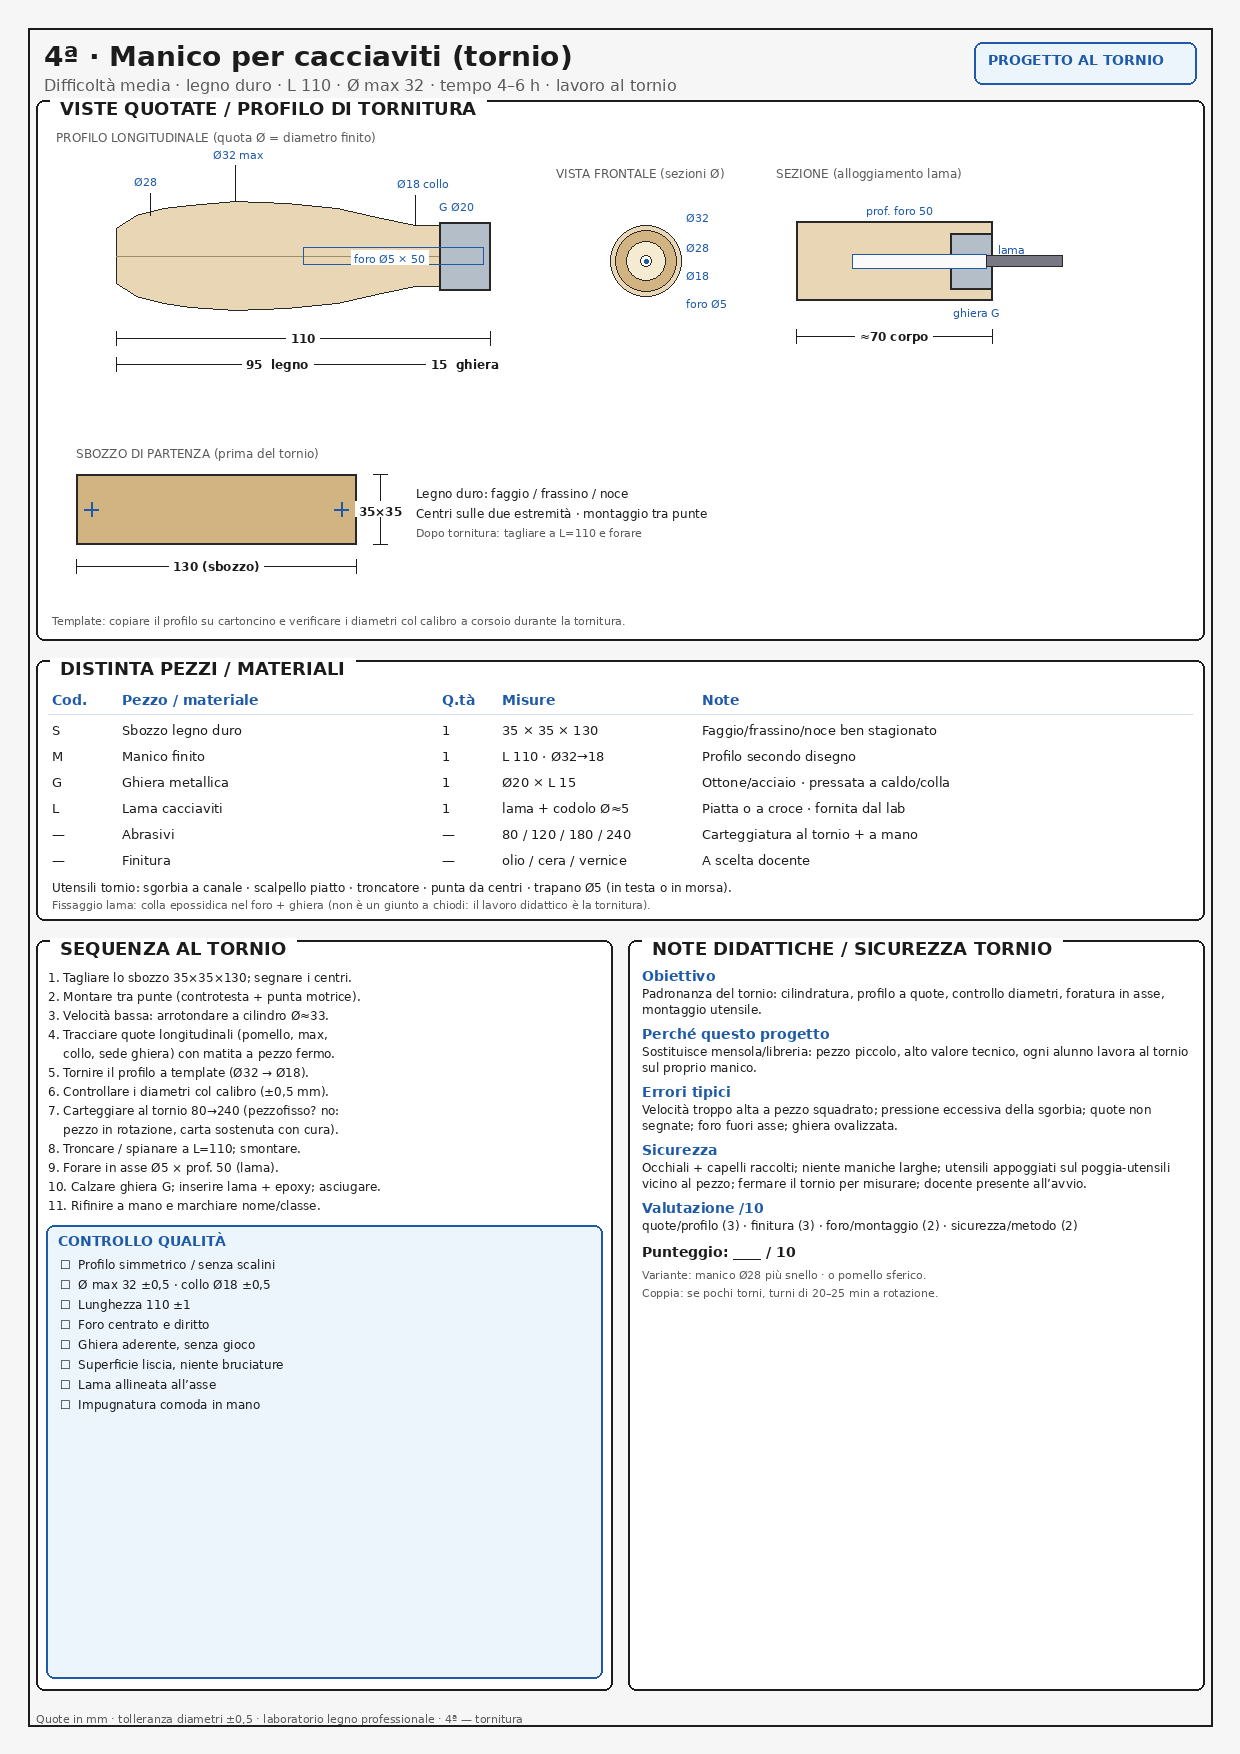
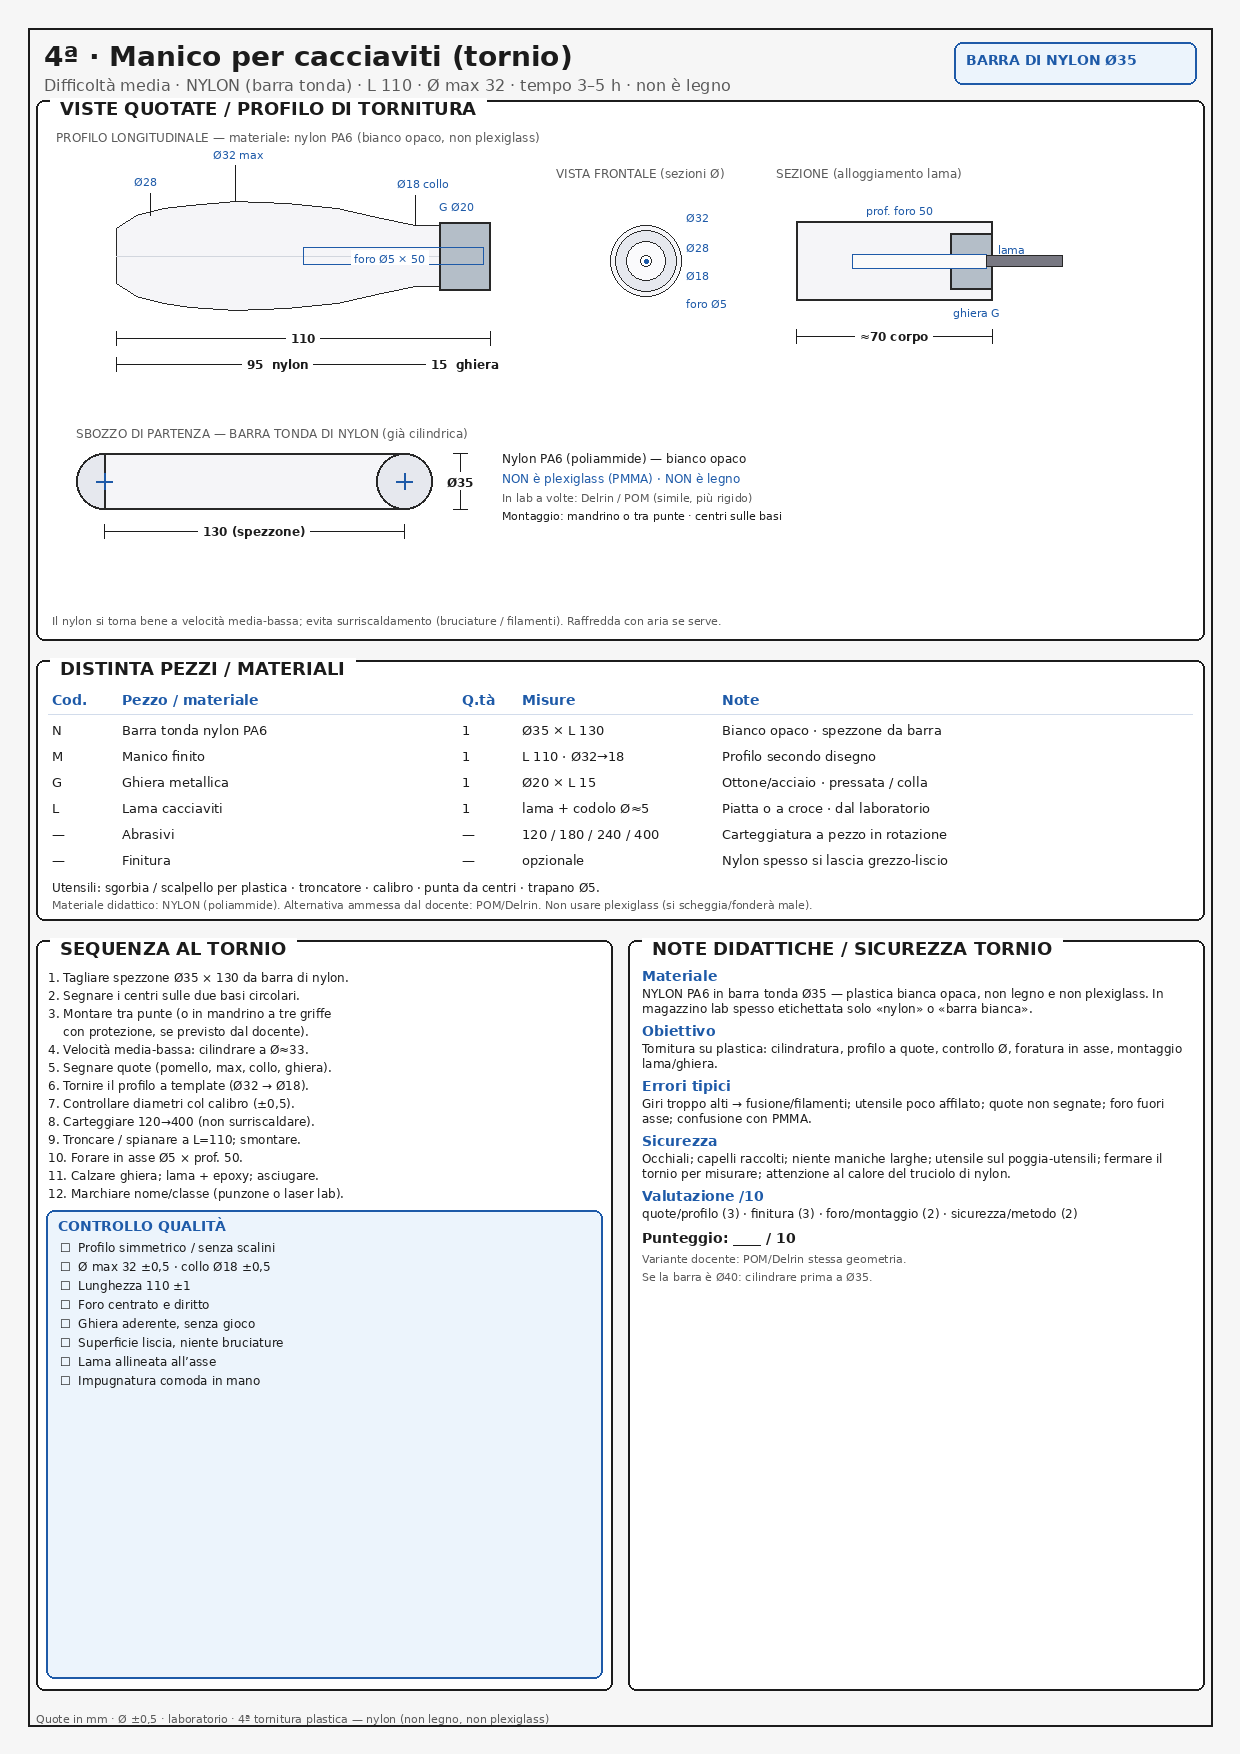
Use nylon round bar for 4ª screwdriver-handle lathe sheet.
Material is cylindrical white PA6 nylon (not wood or plexiglass); blank shown as Ø35 bar stock.

diff --git a/progetti-legno-gallery/index.html b/progetti-legno-gallery/index.html
@@ -94,7 +94,7 @@
     const items = [
       { id: "2", title: "2ª — Portapenne", sub: "Difficoltà bassa · 200×120×100 mm", src: "01-2a-portapenne.png" },
       { id: "3", title: "3ª — Sgabello", sub: "Difficoltà media-bassa · 300×300×418 mm", src: "02-3a-sgabello.png" },
-      { id: "4", title: "4ª — Manico cacciaviti", sub: "Difficoltà media · tornio · L110 · Ø32", src: "03-4a-manico-cacciaviti.png" },
+      { id: "4", title: "4ª — Manico cacciaviti", sub: "Difficoltà media · tornio · nylon Ø35 · L110", src: "03-4a-manico-cacciaviti.png" },
       { id: "5", title: "5ª — Porta-attrezzi", sub: "Difficoltà media-alta · 800×500 mm a muro", src: "04-5a-porta-attrezzi.png" },
     ];
 

diff --git a/progetti-legno-gallery/generate_4a_manico.py b/progetti-legno-gallery/generate_4a_manico.py
@@ -1,5 +1,5 @@
 #!/usr/bin/env python3
-"""A4 scheda: 4ª Manico cacciaviti al tornio (1240×1754)."""
+"""A4 scheda: 4ª Manico cacciaviti al tornio — barra di NYLON (1240×1754)."""
 
 from pathlib import Path
 
@@ -14,8 +14,9 @@ LINE = (40, 40, 40)
 PANEL = (255, 255, 255)
 BG = (246, 246, 246)
 QC = (236, 244, 252)
-WOOD = (232, 214, 180)
-WOOD2 = (210, 180, 130)
+NYLON = (245, 245, 248)       # bianco opaco
+NYLON2 = (230, 232, 238)
+NYLON_SHADE = (210, 214, 222)
 METAL = (180, 190, 200)
 LIGHT = (210, 220, 235)
 
@@ -105,45 +106,36 @@ def wrap(d, text, f, max_w):
     return lines
 
 
-def handle_profile(d, ox, oy, scale=3.2):
-    """Draw longitudinal profile. Lengths in mm along X, radii along Y from axis.
-    Overall L=110. Zones: pomello 0-18, body 18-78, neck 78-95, ferrule 95-110.
-    """
-    # centerline
-    L = 110 * scale
+def handle_profile(d, ox, oy, scale=3.4):
     axis = oy
-    # outline points (x_mm, r_mm) upper half then mirror
     pts = [
         (0, 8),
         (6, 12),
-        (14, 14),  # pomello / end
+        (14, 14),
         (22, 15),
-        (35, 16),  # max grip Ø32
+        (35, 16),
         (50, 15.5),
         (65, 14),
         (78, 11),
-        (88, 9),  # neck
+        (88, 9),
         (95, 9),
-        (95, 10),  # under ferrule wood
+        (95, 10),
         (110, 10),
     ]
     upper = [(ox + x * scale, axis - r * scale) for x, r in pts]
     lower = [(ox + x * scale, axis + r * scale) for x, r in reversed(pts)]
-    poly = upper + lower
-    d.polygon(poly, fill=WOOD, outline=LINE)
-    # centerline
-    d.line((ox, axis, ox + L, axis), fill=(160, 140, 100), width=1)
-    # ferrule metal sleeve 95-110, Ø20 (r=10)
+    d.polygon(upper + lower, fill=NYLON, outline=LINE)
+    # subtle shade band for plastic look
+    d.line((ox, axis, ox + 110 * scale, axis), fill=NYLON_SHADE, width=1)
     fx0 = ox + 95 * scale
     fx1 = ox + 110 * scale
     fr = 10 * scale
     d.rectangle((fx0, axis - fr, fx1, axis + fr), fill=METAL, outline=LINE, width=2)
-    # tang hole hint on profile (dashed tube)
     hx0 = ox + 55 * scale
     hx1 = ox + 108 * scale
     hr = 2.5 * scale
     d.rectangle((hx0, axis - hr, hx1, axis + hr), outline=ACC, width=1)
-    return ox, axis, L, scale
+    return ox, axis, scale
 
 
 def main():
@@ -151,31 +143,26 @@ def main():
     d = ImageDraw.Draw(img)
     d.rectangle((M - 8, M - 8, W - M + 8, H - M + 8), outline=INK, width=2)
 
-    # Header
     d.text((M + 8, M + 4), "4ª · Manico per cacciaviti (tornio)", fill=INK, font=FT)
     d.text(
         (M + 8, M + 40),
-        "Difficoltà media · legno duro · L 110 · Ø max 32 · tempo 4–6 h · lavoro al tornio",
+        "Difficoltà media · NYLON (barra tonda) · L 110 · Ø max 32 · tempo 3–5 h · non è legno",
         fill=MUTED,
         font=FS,
     )
-    badge = (W - M - 230, M + 6, W - M - 8, M + 48)
+    badge = (W - M - 250, M + 6, W - M - 8, M + 48)
     d.rounded_rectangle(badge, radius=8, fill=QC, outline=ACC, width=2)
-    d.text((badge[0] + 14, badge[1] + 10), "PROGETTO AL TORNIO", fill=ACC, font=FB)
+    d.text((badge[0] + 12, badge[1] + 10), "BARRA DI NYLON Ø35", fill=ACC, font=FB)
 
-    # === VISTE ===
     cy = panel(d, (M, 100, W - M, 640), "VISTE QUOTATE / PROFILO DI TORNITURA")
 
-    # Profile
-    d.text((M + 20, cy + 4), "PROFILO LONGITUDINALE (quota Ø = diametro finito)", fill=MUTED, font=FSm)
-    ox, axis, L, sc = handle_profile(d, M + 80, cy + 130, scale=3.4)
+    d.text((M + 20, cy + 4), "PROFILO LONGITUDINALE — materiale: nylon PA6 (bianco opaco, non plexiglass)", fill=MUTED, font=FSm)
+    ox, axis, sc = handle_profile(d, M + 80, cy + 130, scale=3.4)
 
-    # Dimension lengths on profile
     y_dim = axis + 16 * sc + 28
     dim_h(d, ox, ox + 110 * sc, y_dim, "110")
-    dim_h(d, ox, ox + 95 * sc, y_dim + 26, "95  legno")
+    dim_h(d, ox, ox + 95 * sc, y_dim + 26, "95  nylon")
     dim_h(d, ox + 95 * sc, ox + 110 * sc, y_dim + 26, "15  ghiera")
-    # diameter callouts above
     d.line((ox + 35 * sc, axis - 16 * sc, ox + 35 * sc, axis - 16 * sc - 36), fill=INK, width=1)
     label(d, ox + 35 * sc - 22, axis - 16 * sc - 54, "Ø32 max", FX)
     d.line((ox + 10 * sc, axis - 12 * sc, ox + 10 * sc, axis - 12 * sc - 22), fill=INK, width=1)
@@ -185,12 +172,11 @@ def main():
     label(d, ox + 98 * sc - 10, axis - 10 * sc - 22, "G Ø20", FX)
     label(d, ox + 70 * sc, axis - 4, "foro Ø5 × 50", FX)
 
-    # End view (right of profile top)
     ex = M + 520
     ey = cy + 40
     d.text((ex, ey), "VISTA FRONTALE (sezioni Ø)", fill=MUTED, font=FSm)
     cx, cy2 = ex + 90, ey + 95
-    for r, col in ((16 * sc / 3.4 * 2.2, WOOD), (14 * 2.2, WOOD2), (9 * 2.2, (245, 235, 210)), (2.5 * 2.2, PANEL)):
+    for r, col in ((16 * 2.2, NYLON), (14 * 2.2, NYLON2), (9 * 2.2, (250, 250, 252)), (2.5 * 2.2, PANEL)):
         d.ellipse((cx - r, cy2 - r, cx + r, cy2 + r), fill=col, outline=LINE, width=1)
     d.ellipse((cx - 2, cy2 - 2, cx + 2, cy2 + 2), fill=ACC)
     label(d, cx + 40, cy2 - 50, "Ø32", FX)
@@ -198,55 +184,53 @@ def main():
     label(d, cx + 40, cy2 + 8, "Ø18", FX)
     label(d, cx + 40, cy2 + 36, "foro Ø5", FX)
 
-    # Section
     sx = ex + 220
     sy = ey
     d.text((sx, sy), "SEZIONE (alloggiamento lama)", fill=MUTED, font=FSm)
-    # simplified section box
     s_sc = 2.8
     sox, say = sx + 20, sy + 95
-    # wood body short
-    d.rectangle((sox, say - 14 * s_sc, sox + 70 * s_sc, say + 14 * s_sc), fill=WOOD, outline=LINE, width=2)
-    # ferrule
+    d.rectangle((sox, say - 14 * s_sc, sox + 70 * s_sc, say + 14 * s_sc), fill=NYLON, outline=LINE, width=2)
     d.rectangle((sox + 55 * s_sc, say - 10 * s_sc, sox + 70 * s_sc, say + 10 * s_sc), fill=METAL, outline=LINE, width=2)
-    # hole
     d.rectangle((sox + 20 * s_sc, say - 2.5 * s_sc, sox + 68 * s_sc, say + 2.5 * s_sc), fill=(250, 250, 250), outline=ACC, width=1)
-    # blade stub
     d.rectangle((sox + 68 * s_sc, say - 2 * s_sc, sox + 95 * s_sc, say + 2 * s_sc), fill=(120, 120, 130), outline=LINE, width=1)
     label(d, sox + 25 * s_sc, say - 14 * s_sc - 18, "prof. foro 50", FX)
     label(d, sox + 72 * s_sc, say - 18, "lama", FX)
     label(d, sox + 56 * s_sc, say + 14 * s_sc + 6, "ghiera G", FX)
     dim_h(d, sox, sox + 70 * s_sc, say + 14 * s_sc + 36, "≈70 corpo")
 
-    # Blank drawing bottom of views
+    # Cylindrical blank (NOT square wood)
     bx = M + 40
-    by = cy + 320
-    d.text((bx, by), "SBOZZO DI PARTENZA (prima del tornio)", fill=MUTED, font=FSm)
-    # square blank 35x35x130
-    bw, bh = 280, 70
-    d.rectangle((bx, by + 28, bx + bw, by + 28 + bh), fill=WOOD2, outline=LINE, width=2)
-    # center marks
-    d.line((bx + 8, by + 28 + bh // 2, bx + 22, by + 28 + bh // 2), fill=ACC, width=2)
-    d.line((bx + 15, by + 28 + bh // 2 - 7, bx + 15, by + 28 + bh // 2 + 7), fill=ACC, width=2)
-    d.line((bx + bw - 22, by + 28 + bh // 2, bx + bw - 8, by + 28 + bh // 2), fill=ACC, width=2)
-    d.line((bx + bw - 15, by + 28 + bh // 2 - 7, bx + bw - 15, by + 28 + bh // 2 + 7), fill=ACC, width=2)
-    dim_h(d, bx, bx + bw, by + 28 + bh + 22, "130 (sbozzo)")
-    dim_v(d, bx + bw + 24, by + 28, by + 28 + bh, "35×35")
-    d.text((bx + bw + 60, by + 40), "Legno duro: faggio / frassino / noce", fill=INK, font=FSm)
-    d.text((bx + bw + 60, by + 60), "Centri sulle due estremità · montaggio tra punte", fill=INK, font=FSm)
-    d.text((bx + bw + 60, by + 80), "Dopo tornitura: tagliare a L=110 e forare", fill=MUTED, font=FX)
+    by = cy + 300
+    d.text((bx, by), "SBOZZO DI PARTENZA — BARRA TONDA DI NYLON (già cilindrica)", fill=MUTED, font=FSm)
+    # isometric-ish cylinder side view
+    bl = 300
+    br = 28  # visual radius for Ø35
+    by0 = by + 55
+    d.ellipse((bx, by0 - br, bx + br * 2, by0 + br), fill=NYLON2, outline=LINE, width=2)
+    d.rectangle((bx + br, by0 - br, bx + br + bl, by0 + br), fill=NYLON, outline=LINE, width=2)
+    d.ellipse((bx + bl, by0 - br, bx + bl + br * 2, by0 + br), fill=NYLON2, outline=LINE, width=2)
+    # center marks on ends
+    d.line((bx + br - 8, by0, bx + br + 8, by0), fill=ACC, width=2)
+    d.line((bx + br, by0 - 8, bx + br, by0 + 8), fill=ACC, width=2)
+    d.line((bx + bl + br - 8, by0, bx + bl + br + 8, by0), fill=ACC, width=2)
+    d.line((bx + bl + br, by0 - 8, bx + bl + br, by0 + 8), fill=ACC, width=2)
+    dim_h(d, bx + br, bx + bl + br, by0 + br + 22, "130 (spezzone)")
+    dim_v(d, bx + bl + br * 2 + 28, by0 - br, by0 + br, "Ø35")
+    d.text((bx + bl + br * 2 + 70, by0 - 30), "Nylon PA6 (poliammide) — bianco opaco", fill=INK, font=FSm)
+    d.text((bx + bl + br * 2 + 70, by0 - 10), "NON è plexiglass (PMMA) · NON è legno", fill=ACC, font=FSm)
+    d.text((bx + bl + br * 2 + 70, by0 + 10), "In lab a volte: Delrin / POM (simile, più rigido)", fill=MUTED, font=FX)
+    d.text((bx + bl + br * 2 + 70, by0 + 28), "Montaggio: mandrino o tra punte · centri sulle basi", fill=INK, font=FX)
 
     d.text(
         (M + 16, 640 - 26),
-        "Template: copiare il profilo su cartoncino e verificare i diametri col calibro a corsoio durante la tornitura.",
+        "Il nylon si torna bene a velocità media-bassa; evita surriscaldamento (bruciature / filamenti). Raffredda con aria se serve.",
         fill=MUTED,
         font=FX,
     )
 
-    # === DISTINTA ===
     cy = panel(d, (M, 660, W - M, 920), "DISTINTA PEZZI / MATERIALI")
     headers = ["Cod.", "Pezzo / materiale", "Q.tà", "Misure", "Note"]
-    cols = [70, 320, 60, 200, 420]
+    cols = [70, 340, 60, 200, 400]
     x = M + 16
     y = cy + 6
     for h, cw in zip(headers, cols):
@@ -256,12 +240,12 @@ def main():
     d.line((M + 12, y, W - M - 12, y), fill=LIGHT, width=1)
     y += 8
     rows = [
-        ("S", "Sbozzo legno duro", "1", "35 × 35 × 130", "Faggio/frassino/noce ben stagionato"),
+        ("N", "Barra tonda nylon PA6", "1", "Ø35 × L 130", "Bianco opaco · spezzone da barra"),
         ("M", "Manico finito", "1", "L 110 · Ø32→18", "Profilo secondo disegno"),
-        ("G", "Ghiera metallica", "1", "Ø20 × L 15", "Ottone/acciaio · pressata a caldo/colla"),
-        ("L", "Lama cacciaviti", "1", "lama + codolo Ø≈5", "Piatta o a croce · fornita dal lab"),
-        ("—", "Abrasivi", "—", "80 / 120 / 180 / 240", "Carteggiatura al tornio + a mano"),
-        ("—", "Finitura", "—", "olio / cera / vernice", "A scelta docente"),
+        ("G", "Ghiera metallica", "1", "Ø20 × L 15", "Ottone/acciaio · pressata / colla"),
+        ("L", "Lama cacciaviti", "1", "lama + codolo Ø≈5", "Piatta o a croce · dal laboratorio"),
+        ("—", "Abrasivi", "—", "120 / 180 / 240 / 400", "Carteggiatura a pezzo in rotazione"),
+        ("—", "Finitura", "—", "opzionale", "Nylon spesso si lascia grezzo-liscio"),
     ]
     for row in rows:
         x = M + 16
@@ -272,18 +256,17 @@ def main():
 
     d.text(
         (M + 16, 920 - 40),
-        "Utensili tornio: sgorbia a canale · scalpello piatto · troncatore · punta da centri · trapano Ø5 (in testa o in morsa).",
+        "Utensili: sgorbia / scalpello per plastica · troncatore · calibro · punta da centri · trapano Ø5.",
         fill=INK,
         font=FSm,
     )
     d.text(
         (M + 16, 920 - 22),
-        "Fissaggio lama: colla epossidica nel foro + ghiera (non è un giunto a chiodi: il lavoro didattico è la tornitura).",
+        "Materiale didattico: NYLON (poliammide). Alternativa ammessa dal docente: POM/Delrin. Non usare plexiglass (si scheggia/fonderà male).",
         fill=MUTED,
         font=FX,
     )
 
-    # === columns ===
     gap = 16
     col_w = (W - 2 * M - gap) // 2
     lx0, ly0, lx1, ly1 = M, 940, M + col_w, H - M - 28
@@ -291,26 +274,26 @@ def main():
 
     cy = panel(d, (lx0, ly0, lx1, ly1), "SEQUENZA AL TORNIO")
     steps = [
-        "1. Tagliare lo sbozzo 35×35×130; segnare i centri.",
-        "2. Montare tra punte (controtesta + punta motrice).",
-        "3. Velocità bassa: arrotondare a cilindro Ø≈33.",
-        "4. Tracciare quote longitudinali (pomello, max,",
-        "    collo, sede ghiera) con matita a pezzo fermo.",
-        "5. Tornire il profilo a template (Ø32 → Ø18).",
-        "6. Controllare i diametri col calibro (±0,5 mm).",
-        "7. Carteggiare al tornio 80→240 (pezzofisso? no:",
-        "    pezzo in rotazione, carta sostenuta con cura).",
-        "8. Troncare / spianare a L=110; smontare.",
-        "9. Forare in asse Ø5 × prof. 50 (lama).",
-        "10. Calzare ghiera G; inserire lama + epoxy; asciugare.",
-        "11. Rifinire a mano e marchiare nome/classe.",
+        "1. Tagliare spezzone Ø35 × 130 da barra di nylon.",
+        "2. Segnare i centri sulle due basi circolari.",
+        "3. Montare tra punte (o in mandrino a tre griffe",
+        "    con protezione, se previsto dal docente).",
+        "4. Velocità media-bassa: cilindrare a Ø≈33.",
+        "5. Segnare quote (pomello, max, collo, ghiera).",
+        "6. Tornire il profilo a template (Ø32 → Ø18).",
+        "7. Controllare diametri col calibro (±0,5).",
+        "8. Carteggiare 120→400 (non surriscaldare).",
+        "9. Troncare / spianare a L=110; smontare.",
+        "10. Forare in asse Ø5 × prof. 50.",
+        "11. Calzare ghiera; lama + epoxy; asciugare.",
+        "12. Marchiare nome/classe (punzone o laser lab).",
     ]
     yy = cy + 4
     for line in steps:
         d.text((lx0 + 12, yy), line, fill=INK, font=FSm)
-        yy += 19
+        yy += 18
 
-    qy = yy + 8
+    qy = yy + 6
     d.rounded_rectangle((lx0 + 10, qy, lx1 - 10, ly1 - 12), radius=8, fill=QC, outline=ACC, width=2)
     d.text((lx0 + 22, qy + 8), "CONTROLLO QUALITÀ", fill=ACC, font=FB)
     checks = [
@@ -323,17 +306,17 @@ def main():
         "☐  Lama allineata all’asse",
         "☐  Impugnatura comoda in mano",
     ]
-    yy = qy + 32
+    yy = qy + 30
     for c in checks:
         d.text((lx0 + 24, yy), c, fill=INK, font=FSm)
-        yy += 20
+        yy += 19
 
     cy = panel(d, (rx0, ry0, rx1, ry1), "NOTE DIDATTICHE / SICUREZZA TORNIO")
     blocks = [
-        ("Obiettivo", "Padronanza del tornio: cilindratura, profilo a quote, controllo diametri, foratura in asse, montaggio utensile."),
-        ("Perché questo progetto", "Sostituisce mensola/libreria: pezzo piccolo, alto valore tecnico, ogni alunno lavora al tornio sul proprio manico."),
-        ("Errori tipici", "Velocità troppo alta a pezzo squadrato; pressione eccessiva della sgorbia; quote non segnate; foro fuori asse; ghiera ovalizzata."),
-        ("Sicurezza", "Occhiali + capelli raccolti; niente maniche larghe; utensili appoggiati sul poggia-utensili vicino al pezzo; fermare il tornio per misurare; docente presente all’avvio."),
+        ("Materiale", "NYLON PA6 in barra tonda Ø35 — plastica bianca opaca, non legno e non plexiglass. In magazzino lab spesso etichettata solo «nylon» o «barra bianca»."),
+        ("Obiettivo", "Tornitura su plastica: cilindratura, profilo a quote, controllo Ø, foratura in asse, montaggio lama/ghiera."),
+        ("Errori tipici", "Giri troppo alti → fusione/filamenti; utensile poco affilato; quote non segnate; foro fuori asse; confusione con PMMA."),
+        ("Sicurezza", "Occhiali; capelli raccolti; niente maniche larghe; utensile sul poggia-utensili; fermare il tornio per misurare; attenzione al calore del truciolo di nylon."),
         ("Valutazione /10", "quote/profilo (3) · finitura (3) · foro/montaggio (2) · sicurezza/metodo (2)"),
     ]
     yy = cy + 2
@@ -342,16 +325,16 @@ def main():
         yy += 18
         for line in wrap(d, body, FSm, rx1 - rx0 - 30):
             d.text((rx0 + 14, yy), line, fill=INK, font=FSm)
-            yy += 16
-        yy += 8
+            yy += 15
+        yy += 7
 
     d.text((rx0 + 14, yy + 2), "Punteggio: ____ / 10", fill=INK, font=FB)
-    d.text((rx0 + 14, yy + 26), "Variante: manico Ø28 più snello · o pomello sferico.", fill=MUTED, font=FX)
-    d.text((rx0 + 14, yy + 44), "Coppia: se pochi torni, turni di 20–25 min a rotazione.", fill=MUTED, font=FX)
+    d.text((rx0 + 14, yy + 24), "Variante docente: POM/Delrin stessa geometria.", fill=MUTED, font=FX)
+    d.text((rx0 + 14, yy + 42), "Se la barra è Ø40: cilindrare prima a Ø35.", fill=MUTED, font=FX)
 
     d.text(
         (M, H - M - 6),
-        "Quote in mm · tolleranza diametri ±0,5 · laboratorio legno professionale · 4ª — tornitura",
+        "Quote in mm · Ø ±0,5 · laboratorio · 4ª tornitura plastica — nylon (non legno, non plexiglass)",
         fill=MUTED,
         font=FX,
     )
@@ -365,7 +348,7 @@ def main():
     for p in outs:
         p.parent.mkdir(parents=True, exist_ok=True)
         img.save(p, "PNG", optimize=True)
-        print("wrote", p, img.size)
+        print("wrote", p)
 
 
 if __name__ == "__main__":
